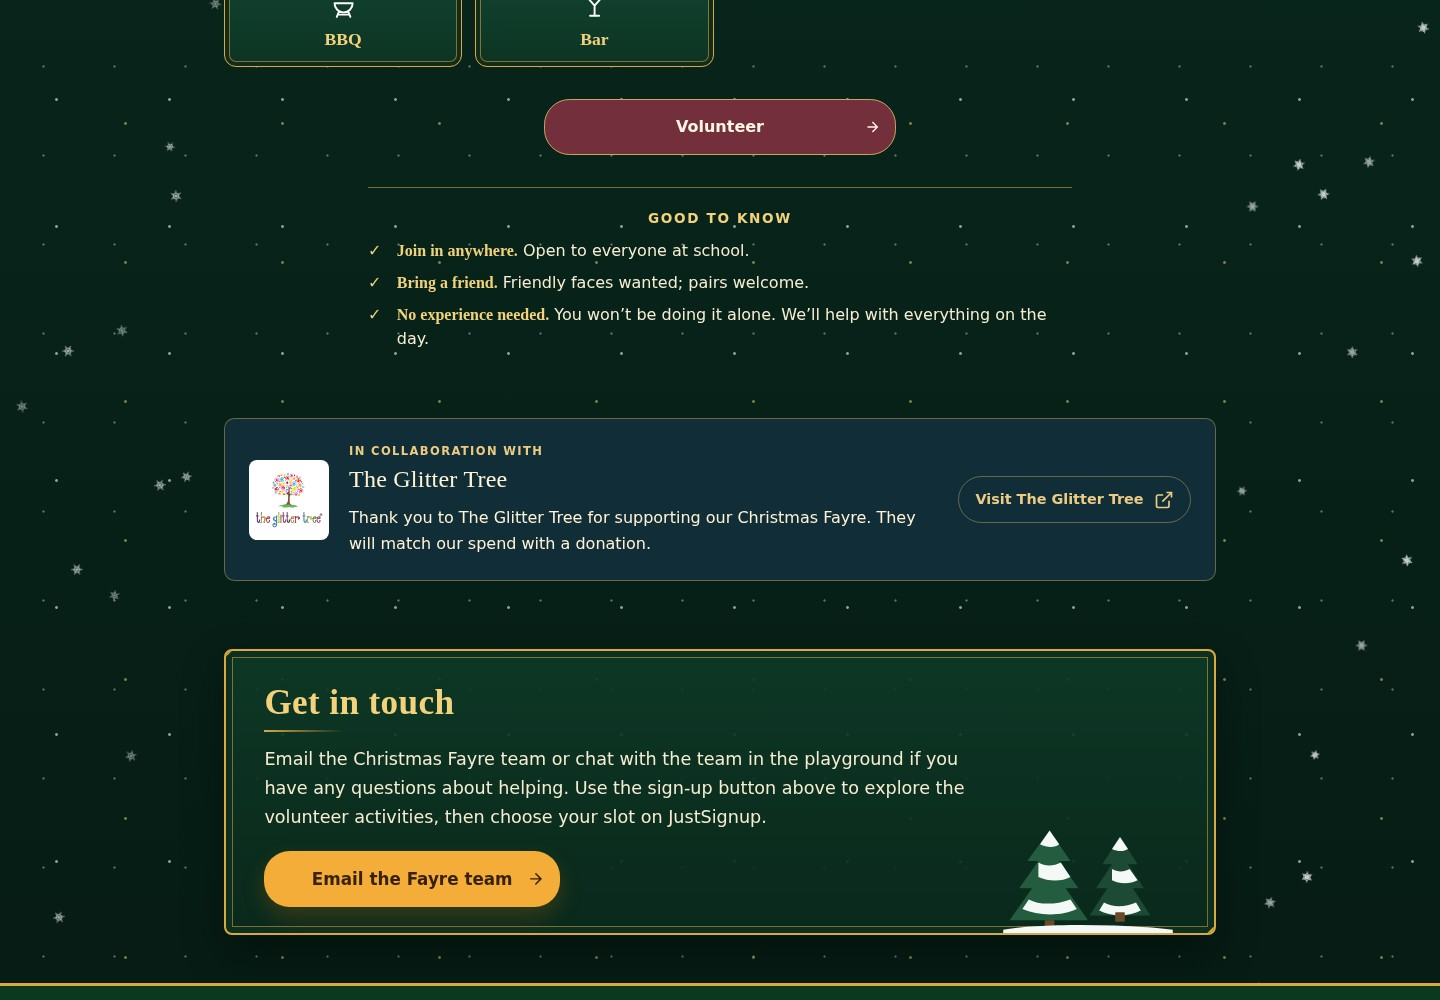
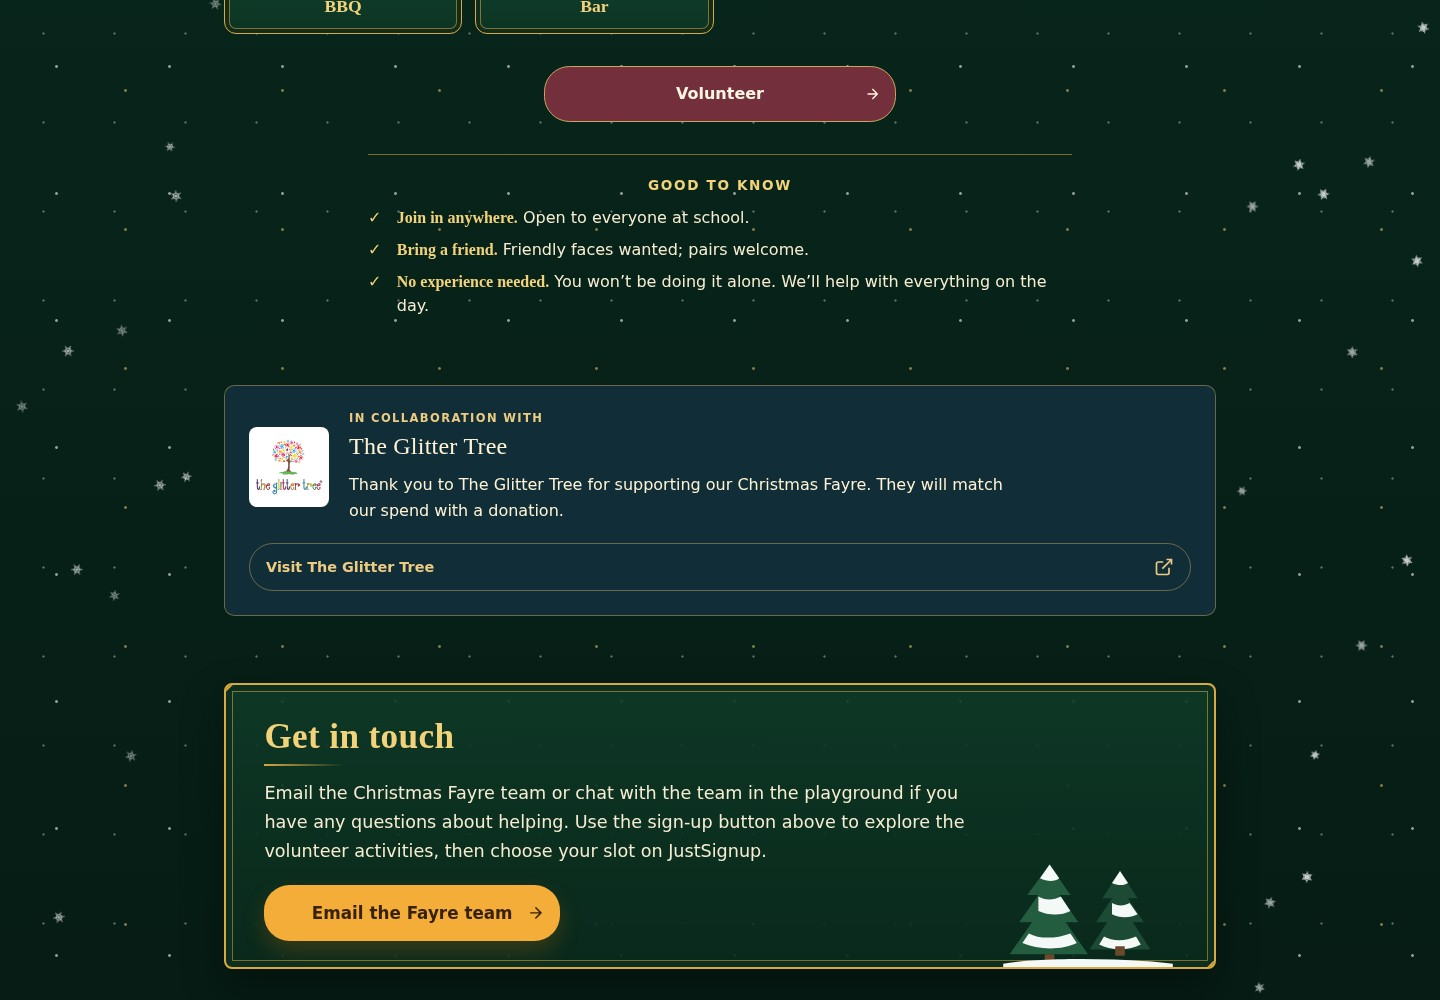
Make Glitter Tree collaboration CTA full width

Changed region(s): [[0.0, 0.651, 1.0, 1.0], [0.1562, 0.372, 0.8438, 0.62], [0.1562, 0.0, 0.7188, 0.341]]

diff --git a/tests/e2e/glitter-tree.spec.ts b/tests/e2e/glitter-tree.spec.ts
@@ -3,7 +3,7 @@ import AxeBuilder from '@axe-core/playwright';
 for(const width of [320,390,768,1440])for(const mode of ['day','night'])for(const scale of [1,2])test(`Glitter Tree supporter ${width} ${mode} ${scale}`,async({page})=>{
  await page.setViewportSize({width,height:1000});await page.addInitScript(mode=>{localStorage.setItem('foa-theme',mode);localStorage.setItem('foa-cookie-preferences','essential')},mode);
  for(const path of ['/events/christmas-fayre-2026/','/preview/glitter-tree-details-b/','/christmas-fayre-volunteering/','/preview/glitter-tree-volunteering-b/']){
- await page.goto(path);await page.addStyleTag({content:`html{font-size:${scale*100}%!important}`});const credit=page.locator('.fayre-supporter');await credit.scrollIntoViewIfNeeded();await credit.locator('img').evaluate((img:HTMLImageElement)=>img.decode());await expect(credit).toContainText('The Glitter Tree');await expect(credit).not.toContainText(/Rewards|10%|code/i);await expect(credit.locator('a')).toHaveAttribute('href','https://theglittertree.com/');await expect(credit.locator('a')).toHaveAttribute('rel','noopener noreferrer sponsored');expect(await page.evaluate(()=>document.documentElement.scrollWidth-innerWidth)).toBeLessThanOrEqual(1);
+ await page.goto(path);await page.addStyleTag({content:`html{font-size:${scale*100}%!important}`});const credit=page.locator('.fayre-supporter');await credit.scrollIntoViewIfNeeded();await credit.locator('img').evaluate((img:HTMLImageElement)=>img.decode());await expect(credit).toContainText('The Glitter Tree');if(path.includes('-b/')){const bounds=await credit.evaluate(n=>{const c=getComputedStyle(n),a=n.querySelector('a')!.getBoundingClientRect();return {button:a.width,content:n.clientWidth-parseFloat(c.paddingLeft)-parseFloat(c.paddingRight)}});expect(bounds.button).toBeCloseTo(bounds.content,0)}await expect(credit).not.toContainText(/Rewards|10%|code/i);await expect(credit.locator('a')).toHaveAttribute('href','https://theglittertree.com/');await expect(credit.locator('a')).toHaveAttribute('rel','noopener noreferrer sponsored');expect(await page.evaluate(()=>document.documentElement.scrollWidth-innerWidth)).toBeLessThanOrEqual(1);
  if(width===390&&scale===1)expect((await new AxeBuilder({page}).include('.fayre-supporter').analyze()).violations).toEqual([]);
  }
 });
